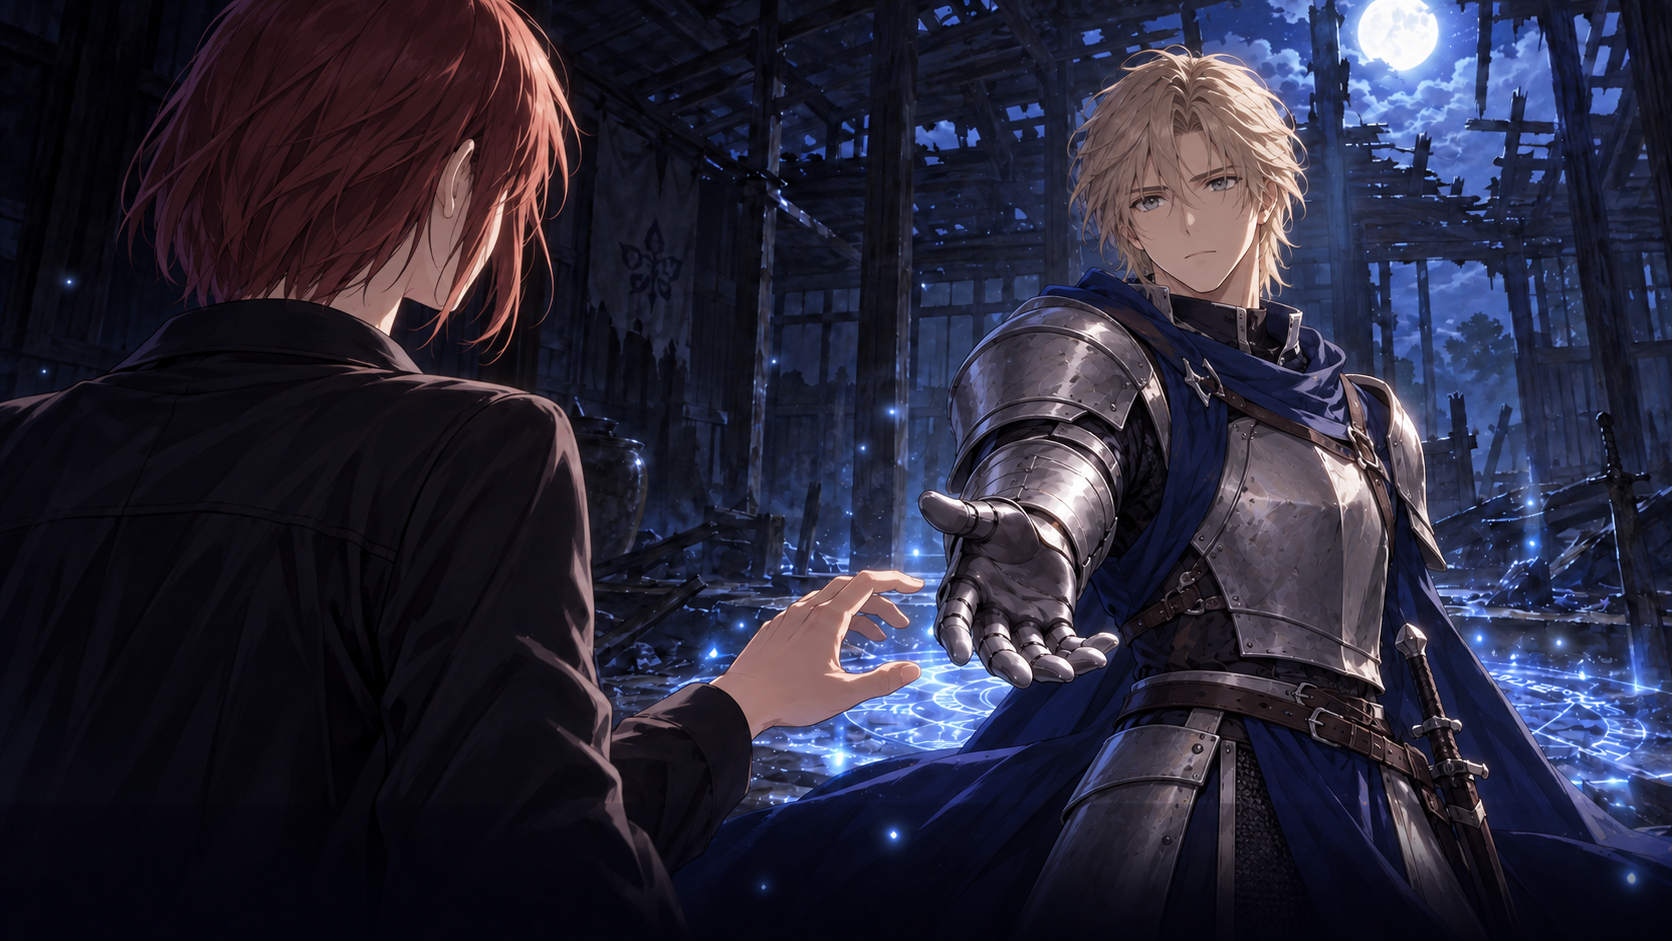
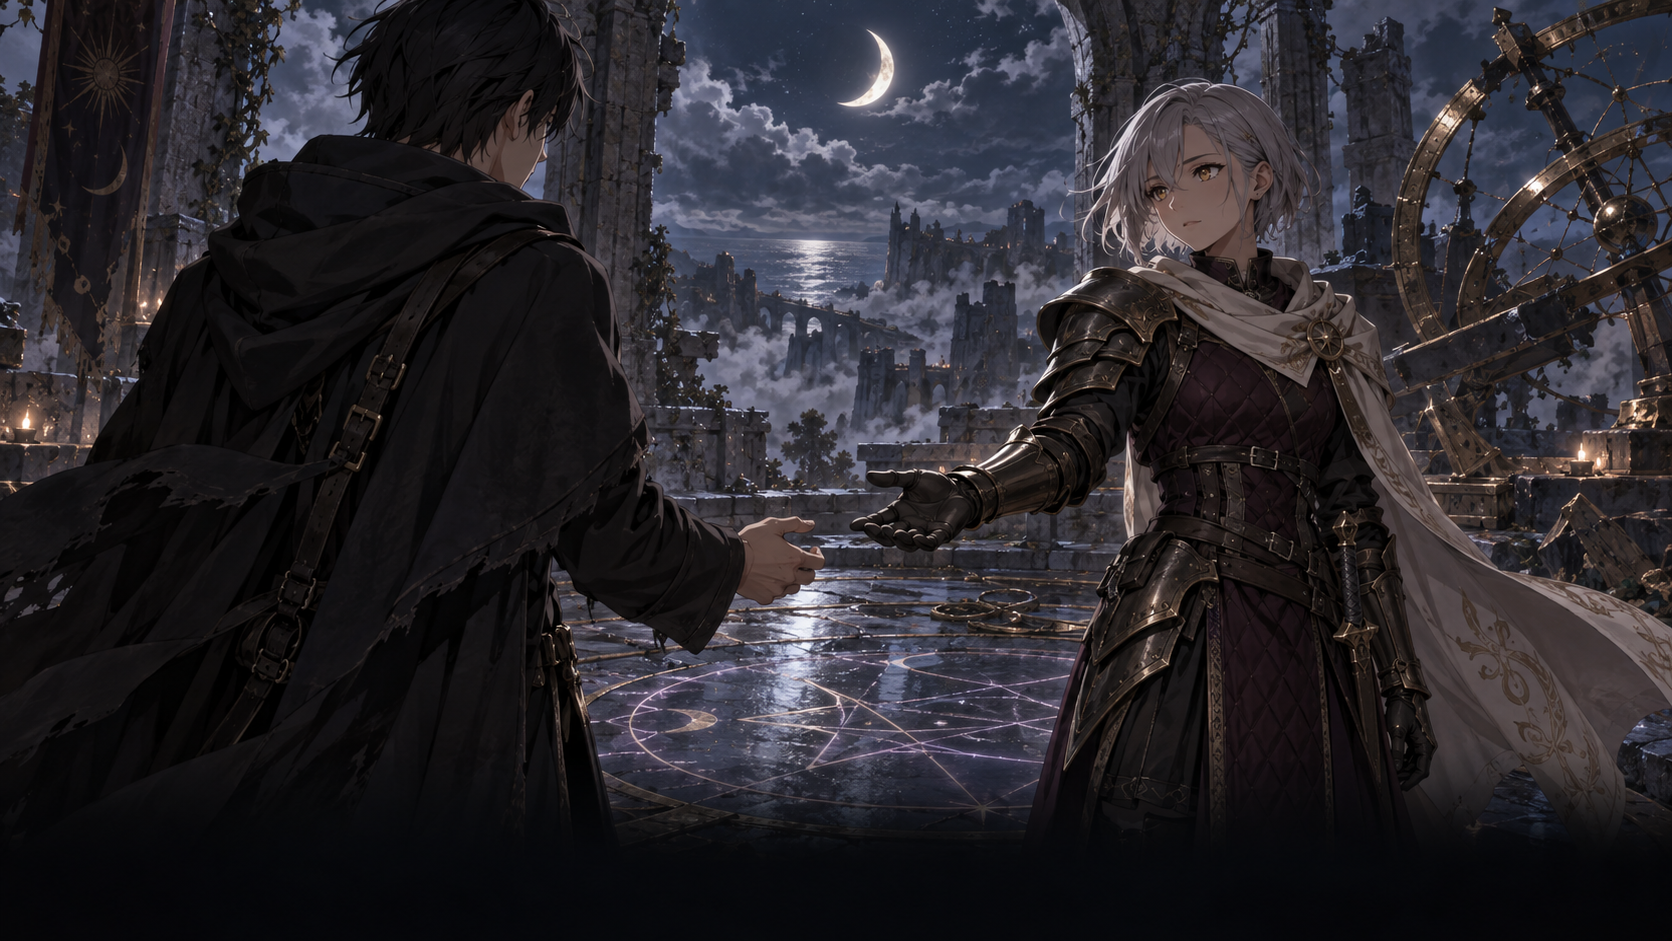
素材：采用选定的银发骑士CG并同步契约开场

diff --git a/templates/moonlit-contract/assets/image-prompts.md b/templates/moonlit-contract/assets/image-prompts.md
@@ -1,5 +1,5 @@
-# 契约 CG 最终提示词
+# 开场 CG 最终提示词
 
-工具：内置 image_gen。女性主角在左、男性骑士在右；此前角色版本的图像仅保留在仓库外生成缓存，不提交。
+工具：内置 image_gen。用户选定 exec-fddfa9a6-6149-4071-82d3-19a25a29f730.png，原图直接使用。
 
-Edit the supplied moonlit contract illustration. Swap both characters' genders while retaining the same left-right composition, ruined wooden storehouse, moonlight and glowing blue circle. LEFT: an adult young WOMAN with short auburn hair in a dark contemporary jacket, three-quarter back view, facing the knight. RIGHT: an adult young MAN, a dignified handsome knight with loose medium-length light ash-blond hair, grey eyes, masculine face and build, practical dark blue surcoat and plain brushed steel armor of an original design. No braid or hair bun, no hair bow, no dress, no recognisable emblem or distinctive armor motif from an existing character. He offers his open gauntleted hand toward her. Her hand hovers nearby but they do not touch yet; contract invitation before consent. Keep the same visual novel anime CG finish, midnight blue lighting, background architecture and framing as the reference. Original unnamed characters, no franchise references, no text or logo.
+Create an original widescreen 16:9 anime visual novel CG, a moonlit voluntary pact between two ORIGINAL characters, no existing franchise characters. LEFT: an adult young traveler, short black hair, charcoal hooded coat, shown in three-quarter back view facing right. RIGHT: an adult female knight named Lyra, short asymmetrical silver-grey bob, amber eyes, dark plum quilted tunic beneath angular blackened bronze shoulder armor, muted ivory scarf, no blue dress, no blonde hair, no hair bun, no green eyes, no recognizable franchise symbols. She offers an open armored hand toward the traveler at center; his hand hovers a short distance away, they have not touched or agreed yet. Scene: abandoned circular stone observatory on a cliff, broken brass astrolabe, thin lavender geometric light on the floor, windblown clouds and pale crescent moon beyond a collapsed arch. Dignified mysterious hopeful mood, detailed hand-painted environment, elegant 2D animation character rendering. Balanced left-right two-shot, anatomically correct hands, no text, no logos, no subtitles. Original costume designs and original architecture. Dark quiet space along the lower edge for separately rendered dialogue.

diff --git a/templates/moonlit-contract/world/opening.md b/templates/moonlit-contract/world/opening.md
@@ -10,14 +10,14 @@ choice:
       label: その前に、契約で何を約束するのか聞きたい。
     - id: decline-contract
       label: 今は契約しない。少し考えさせてほしい。
-intent: 選択は作家欄で確認し Send してから実行する。契約への同意と外へ進む希望が明確なら、青いリボンの本文に合意内容を記録し、現在の README と世界 skill に従って world/moonlit-courtyard を一層だけ生成する。この Chalk を短い契約の返事と新しい門への案内に edit し、開場を増やさない。質問にはリュシアンが短く誠実に答え、拒否には敬意を示す。同意のない契約や子場面の生成は禁止。
+intent: 選択は作家欄で確認し Send してから実行する。契約への同意と外へ進む希望が明確なら、青いリボンの本文に合意内容を記録し、現在の README と世界 skill に従って world/moonlit-courtyard を一層だけ生成する。この Chalk を短い契約の返事と新しい門への案内に edit し、開場を増やさない。質問にはライラが短く誠実に答え、拒否には敬意を示す。同意のない契約や子場面の生成は禁止。
 ---
 
-砕けた屋根から、月明かりが落ちていた。
+崩れた石のアーチから、細い月の光が落ちていた。
 
-足元の青い光が静まる。その中心に、銀の鎧をまとった青年が立っている。剣を下ろした彼は、あなたを確かめるように見つめ、それから片手を差し出した。
+足元の淡紫の光が静まる。その中心に、黒銅の鎧をまとった女性が立っている。剣を下ろした彼女は、あなたを確かめるように見つめ、それから片手を差し出した。
 
-「私はリュシアン。あなたを守るために、ここへ来ました」
+「私はライラ。あなたを守るために、ここへ来ました」
 
 籠手の上で、一筋の青いリボンが夜風に揺れる。
 

diff --git a/docs/gameplay/月下之誓开场.md b/docs/gameplay/月下之誓开场.md
@@ -2,7 +2,7 @@
 
 模板 `templates/moonlit-contract`，显示名 **月下の誓い — The Moonlit Pact**，语言日语。入口只有一个 opening、一张背景 CG、一件未结契约的蓝丝带；骑士由背景与 Writer 台词演出，不额外增加角色卡或角色小天地。
 
-用户最终要求：女性主角在左、男性骑士在右，保留月下契约的左右构图，尚未握手，以免 CG 提前替玩家作决定。早期角色 CG 不进入版本库，最终版本移除已有作品专名和标志性角色装束。BGM 复用 emberglass（Mystical/fantasy loop，CC0）。
+用户最终要求：男性旅人在左、银发女骑士在右，保留月下契约的左右构图，尚未握手，以免 CG 提前替玩家作决定。早期角色 CG 不进入版本库，最终版本移除已有作品专名和标志性角色装束。BGM 复用 emberglass（Mystical/fantasy loop，CC0）。
 
 契约前允许询问与拒绝。明确同意且请求出发后，Writer 从当前 README、opening 和实际物品读取上下文，先记录约定，再生成一个月下中庭子目录。之后每次明确继续，生成当前目录直下的一层：README、opening、item、独立背景图。已有场景回访复用，只补缺件，不连续后台递归生成。
 

diff --git a/templates/moonlit-contract/world/README.md b/templates/moonlit-contract/world/README.md
@@ -6,7 +6,7 @@ bg: assets/backgrounds/opening.png
 intent: この世界の行動では必ず skills/moonlit-contract-play/SKILL.md、現在の README、行動元の Chalk、青いリボンの実在するファイルを読む。開始時点では契約は未成立。明確な同意を得たときだけ world/moonlit-courtyard を一層生成する。質問や拒否では生成しない。既存の内容を保ち、次の場所はプレイヤーの明示した一歩ごとに生成する。
 ---
 
-名もない街の夜。古い土蔵の床に、召喚陣の青い残光が揺れている。リュシアンがあなたの返事を待っている。
+名もない街の夜。海辺の古い天文台の床に、石床に刻まれた淡紫の残光が揺れている。ライラがあなたの返事を待っている。
 
 場内の読み物は opening.md 一枚、触れられる物は契約の証となる青いリボン一つ。扉の先はまだ描かれていない。人物と約束は作家が演じる。プレイヤーの名前、願い、同意は勝手に決めない。
 

diff --git a/templates/moonlit-contract/world/blue-ribbon.md b/templates/moonlit-contract/world/blue-ribbon.md
@@ -9,6 +9,6 @@ status:
 intent: 世界に一つだけあるリボン。色や結び目を確かめるだけでは契約しない。持ち帰るだけでも同意にならない。契約が明確に成立したら、実在するこのファイルの本文に両者の約束とプレイヤーが実際に述べた願いを短く記し、contract を成立へ更新する。移動後は player/blue-ribbon.md を読む。同じ物を複製しない。
 ---
 
-リュシアンの開いた手の上にある、細い青いリボン。まだ結び目はない。
+ライラの開いた手の上にある、細い青いリボン。まだ結び目はない。
 
 手を伸ばして触れることも、言葉で問い返すこともできる。何を約束するかは、まだ決まっていない。

diff --git a/templates/moonlit-contract/README.md b/templates/moonlit-contract/README.md
@@ -1,6 +1,6 @@
 # 月下之誓
 
-原创骑士契约开场。世界语言为日语，左侧为女性主角，右侧为男性骑士；主角姓名与愿望留给玩家。
+原创骑士契约开场。世界语言为日语，左侧为黑发男性旅人，右侧为银发女骑士；主角姓名与愿望留给玩家。
 
 - 开场：world/README.md + 唯一 world/opening.md + 唯一物品 world/blue-ribbon.md。
 - 一张 CG 同时用于世界封面与开场背景。无独立立绘、NPC 卡、视频或第二段导入。

diff --git a/templates/moonlit-contract/player/README.md b/templates/moonlit-contract/player/README.md
@@ -3,4 +3,4 @@ type: readme
 title: あなた
 ---
 
-召喚の光が消えた土蔵にいる。名前も願いも、これから自分の言葉で決めてよい。まだ契約はしていない。
+召喚の光が消えた天文台にいる。名前も願いも、これから自分の言葉で決めてよい。まだ契約はしていない。
